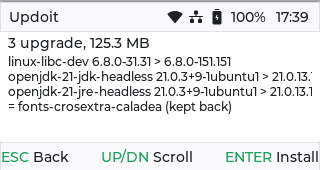
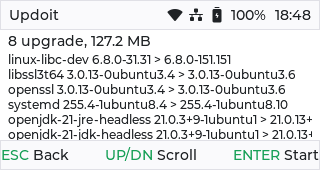
menu: add download-only, reorder, scroll; regenerate screenshots
Menu is now: apt update, apt dist-upgrade -d, apt upgrade, apt dist-upgrade,
apt autoremove, apt clean. "dist-upgrade -d" plans and downloads the full
upgrade set in parallel, moves the files into apt's cache and stops; a later
upgrade or dist-upgrade installs without network. Six rows do not fit the
content area, so the list scrolls (five rows visible).

Confirm screen says "Download only:" for that run and the navbar now reads
"Start" instead of "Install". Screenshots regenerated from the simulator with
8 pending packages, plus a launcher thumbnail showing the icon with the 8 badge.

Claude-Session: https://claude.ai/code/session_01Xo4aVjoxHArJZSZCeMoR8x

Changed region(s): [[0.0, 0.0, 1.0, 1.0]]

diff --git a/src/viewmodel/base_viewmodel.cpp b/src/viewmodel/base_viewmodel.cpp
@@ -74,10 +74,11 @@ updater::JobConfig job_config() {
 }
 
 constexpr Operation kMenuOps[model::kMenuItemCount] = {
+    Operation::Refresh,
+    Operation::Download,
     Operation::Upgrade,
     Operation::FullUpgrade,
     Operation::Autoremove,
-    Operation::Refresh,
     Operation::Clean,
 };
 
@@ -96,7 +97,7 @@ BaseViewModel::BaseViewModel()
       updates_text_subject_(""),
       menu_hint_subject_{reactive::StringSubject<24>(""), reactive::StringSubject<24>(""),
                          reactive::StringSubject<24>(""), reactive::StringSubject<24>(""),
-                         reactive::StringSubject<24>("")},
+                         reactive::StringSubject<24>(""), reactive::StringSubject<24>("")},
       confirm_summary_subject_(""),
       progress_title_subject_(""),
       progress_detail_subject_(""),
@@ -287,7 +288,8 @@ const char* BaseViewModel::menu_label(int index) {
     }
     // Show the real command, so the menu teaches what it runs (apt-get under the hood).
     static const char* const kLabels[model::kMenuItemCount] = {
-        "apt upgrade", "apt dist-upgrade", "apt autoremove", "apt update", "apt clean",
+        "apt update",     "apt dist-upgrade -d", "apt upgrade",
+        "apt dist-upgrade", "apt autoremove",    "apt clean",
     };
     return kLabels[index];
 }
@@ -324,12 +326,13 @@ void BaseViewModel::refresh_updates_text() {
     const auto count_text = [&](int n) {
         return !cache.valid ? std::string("?") : n == 0 ? std::string("none") : std::to_string(n) + " pkg" + (n == 1 ? "" : "s");
     };
-    menu_hint_subject_[0].set(count_text(cache.upgradable).c_str());
-    menu_hint_subject_[1].set(count_text(cache.full_upgradable).c_str());
-    menu_hint_subject_[2].set(count_text(cache.autoremovable).c_str());
     const auto updated = age_text(cache.updated);
-    menu_hint_subject_[3].set(updated.empty() ? "never updated" : updated.c_str());
-    menu_hint_subject_[4].set(!cache.valid || !cache.has_cache_bytes
+    menu_hint_subject_[0].set(updated.empty() ? "never updated" : updated.c_str());
+    menu_hint_subject_[1].set(count_text(cache.full_upgradable).c_str());
+    menu_hint_subject_[2].set(count_text(cache.upgradable).c_str());
+    menu_hint_subject_[3].set(count_text(cache.full_upgradable).c_str());
+    menu_hint_subject_[4].set(count_text(cache.autoremovable).c_str());
+    menu_hint_subject_[5].set(!cache.valid || !cache.has_cache_bytes
                                   ? "?"
                                   : (cache.cache_bytes == 0 ? "empty"
                                                             : updater::format_bytes(cache.cache_bytes).c_str()));
@@ -404,7 +407,8 @@ void BaseViewModel::publish_job(const updater::JobSnapshot& s) {
             break;
 
         case Phase::AwaitingConfirm: {
-            std::string summary = std::to_string(s.upgrades) + " upgrade";
+            std::string summary = s.operation == Operation::Download ? "Download only: " : "";
+            summary += std::to_string(s.upgrades) + " upgrade";
             if (s.new_installs) {
                 summary += ", " + std::to_string(s.new_installs) + " new";
             }
@@ -473,7 +477,14 @@ void BaseViewModel::publish_job(const updater::JobSnapshot& s) {
                                           : s.operation == Operation::Clean ? "Caches cleaned"
                                                                             : "Done");
                 result_tone_subject_.set(0);
-                if (s.operation == Operation::Clean) {
+                if (s.operation == Operation::Download) {
+                    result_title_subject_.set("Downloaded");
+                    text = s.downloaded_count == 0
+                               ? "Nothing to download."
+                               : std::to_string(s.downloaded_count) +
+                                     " packages cached. Run apt upgrade to install them.";
+                }
+                else if (s.operation == Operation::Clean) {
                     text = s.freed_bytes ? "Freed " + updater::format_bytes(s.freed_bytes) + "."
                                          : "Nothing to clean.";
                 }

diff --git a/src/view/screens/menu_screen.cpp b/src/view/screens/menu_screen.cpp
@@ -14,6 +14,7 @@ void row_selected_observer(lv_observer_t* observer, lv_subject_t* subject) {
     const auto index = static_cast<int>(reinterpret_cast<intptr_t>(lv_observer_get_user_data(observer)));
     if (lv_subject_get_int(subject) == index) {
         lv_obj_add_state(row, LV_STATE_CHECKED);
+        lv_obj_scroll_to_view(row, LV_ANIM_OFF); // keep the selection visible in the list
     }
     else {
         lv_obj_remove_state(row, LV_STATE_CHECKED);
@@ -41,8 +42,18 @@ void MenuScreen::build_content(lv_obj_t* content) {
     reactive::bind_label_text(status, view_model().updates_text_subject());
     style::accent(status, dark, style::Accent::Part::Text, style::Accent::Tone::Muted);
 
+    // Rows live in a scrolling list: six rows do not fit the content area at once.
+    auto* list = style::box(column);
+    lv_obj_set_width(list, LV_PCT(100));
+    lv_obj_set_height(list, 5 * 17); // exactly five rows, so none is half cut off
+    lv_obj_add_flag(list, LV_OBJ_FLAG_SCROLLABLE);
+    lv_obj_set_scrollbar_mode(list, LV_SCROLLBAR_MODE_OFF);
+    lv_obj_set_scroll_dir(list, LV_DIR_VER);
+    lv_obj_remove_flag(list, LV_OBJ_FLAG_SCROLL_ELASTIC);
+    lv_obj_set_flex_flow(list, LV_FLEX_FLOW_COLUMN);
+
     for (int i = 0; i < model::kMenuItemCount; ++i) {
-        auto* row = style::box(column);
+        auto* row = style::box(list);
         lv_obj_set_size(row, LV_PCT(100), 17); // five rows fit the 110 px content area
         lv_obj_set_style_radius(row, 4, 0);
         lv_obj_set_style_pad_hor(row, 6, 0);

diff --git a/tests/updoit_cli.cpp b/tests/updoit_cli.cpp
@@ -3,7 +3,7 @@
  */
 
 // Headless driver for UpgradeJob, for testing on a host or over SSH on the device:
-//   updoit-cli [upgrade|full-upgrade|autoremove|refresh|clean] [--yes] [--plan-only]
+//   updoit-cli [upgrade|full-upgrade|autoremove|refresh|clean|download] [--yes] [--plan-only]
 
 #include "upgrade_job.h"
 
@@ -29,12 +29,13 @@ int main(int argc, char** argv) {
         else if (a == "autoremove") op = Operation::Autoremove;
         else if (a == "refresh") op = Operation::Refresh;
         else if (a == "clean") op = Operation::Clean;
+        else if (a == "download") op = Operation::Download;
         else if (a == "--yes") yes = true;
         else if (a == "--plan-only") plan_only = true;
         else if (a.rfind("--limit=", 0) == 0) limit = a.substr(8);
         else if (a.rfind("--cancel-after-ms=", 0) == 0) cancel_after_ms = std::stoi(a.substr(18));
         else {
-            std::fprintf(stderr, "usage: %s [upgrade|full-upgrade|autoremove|refresh|clean] [--yes] [--plan-only] [--limit=500K] [--cancel-after-ms=N]\n", argv[0]);
+            std::fprintf(stderr, "usage: %s [upgrade|full-upgrade|autoremove|refresh|clean|download] [--yes] [--plan-only] [--limit=500K] [--cancel-after-ms=N]\n", argv[0]);
             return 2;
         }
     }

diff --git a/src/updater/apt_parse.cpp b/src/updater/apt_parse.cpp
@@ -69,6 +69,8 @@ const char* operation_label(Operation op) {
             return "Refresh lists";
         case Operation::Clean:
             return "Clean caches";
+        case Operation::Download:
+            return "Download updates";
     }
     return "";
 }
@@ -85,12 +87,14 @@ const char* operation_apt_verb(Operation op) {
             return "update";
         case Operation::Clean:
             return "clean";
+        case Operation::Download:
+            return "dist-upgrade"; // planned and fetched like dist-upgrade, never installed
     }
     return "";
 }
 
 bool operation_downloads(Operation op) {
-    return op == Operation::Upgrade || op == Operation::FullUpgrade;
+    return op == Operation::Upgrade || op == Operation::FullUpgrade || op == Operation::Download;
 }
 
 bool operation_is_direct(Operation op) {

diff --git a/src/updater/upgrade_job.cpp b/src/updater/upgrade_job.cpp
@@ -411,6 +411,18 @@ void UpgradeJob::execute_worker(Operation op) {
         }
     }
 
+    if (op == Operation::Download) {
+        // Files are in apt's cache now; "apt upgrade"/"apt dist-upgrade" will use them
+        // later without touching the network. Nothing is installed.
+        std::lock_guard<std::mutex> lock(mutex_);
+        state_.downloaded_count = static_cast<int>(staged.size());
+        state_.install_percent = 100;
+        state_.phase = Phase::Done;
+        state_.can_cancel = false;
+        bump();
+        return;
+    }
+
     // 3. Install. apt re-verifies every hash before dpkg sees the files.
     //    Status goes to fd 3 (a dup of stdout): with APT::Status-Fd=1 apt closes stdout for
     //    dpkg, and maintainer scripts that echo then fail with "I/O error". sudo closes

diff --git a/src/view/widgets/navbar.cpp b/src/view/widgets/navbar.cpp
@@ -27,7 +27,7 @@ Hints hints_for(model::AppPage page, bool can_cancel) {
         case model::AppPage::Menu:
             return {{{"ESC", "Quit"}, {"UP/DN", "Choose"}, {"ENTER", "Run"}}};
         case model::AppPage::Confirm:
-            return {{{"ESC", "Back"}, {"UP/DN", "Scroll"}, {"ENTER", "Install"}}};
+            return {{{"ESC", "Back"}, {"UP/DN", "Scroll"}, {"ENTER", "Start"}}};
         case model::AppPage::Progress:
             if (can_cancel) {
                 return {{{"ESC", "Cancel"}, {nullptr, nullptr}, {nullptr, nullptr}}};

diff --git a/src/updater/apt_parse.h b/src/updater/apt_parse.h
@@ -16,6 +16,7 @@ enum class Operation {
     Autoremove,  // apt-get autoremove
     Refresh,     // apt-get update
     Clean,       // apt-get clean (frees the package cache)
+    Download,    // apt-get dist-upgrade --download-only (fetch now, install later)
 };
 
 const char* operation_label(Operation op);

diff --git a/src/updater/upgrade_job.h b/src/updater/upgrade_job.h
@@ -43,6 +43,7 @@ struct JobSnapshot {
     int kept_back = 0;
     uint64_t download_bytes = 0;  // total size of files to fetch
     uint64_t freed_bytes = 0;     // Clean caches: space released
+    int downloaded_count = 0;     // Download updates: packages fetched
 
     DownloadProgress download;
 

diff --git a/src/model/base_model.h b/src/model/base_model.h
@@ -16,7 +16,7 @@ enum class AppPage {
     Result   = 4, // done / failed / cancelled
 };
 
-constexpr int kMenuItemCount = 5;
+constexpr int kMenuItemCount = 6;
 
 class BaseModel {
 public:

diff --git a/README.md b/README.md
@@ -1,4 +1,5 @@
 <p align="center">
+  <img src="./screenshot/updoit-launcher.png" alt="Updoit in the launcher, with 8 updates pending" width="320" />
   <img src="./screenshot/updoit-menu.png" alt="Updoit menu" width="320" />
   <img src="./screenshot/updoit-download.png" alt="Updoit downloading packages in parallel" width="320" />
 </p>
@@ -10,9 +11,11 @@
 
 ## What it does
 
-- **apt upgrade, apt dist-upgrade, apt autoremove, apt update, apt clean** (run as the
-  matching `apt-get` commands), each labelled with its command and with what it would do:
-  package counts, time of the last update, and the size of the package cache from a keyboard-driven 320x170 UI.
+- **apt update, apt dist-upgrade -d, apt upgrade, apt dist-upgrade, apt autoremove,
+  apt clean** from a keyboard-driven 320x170 UI, run as the matching `apt-get` commands.
+  `-d` downloads everything now and installs nothing, so a later upgrade needs no network.
+- **Each menu row shows what it would do**: package counts, the time of the last update and
+  the size of the package cache, cached in `/etc/updoit.status`.
 - **Confirm first**: shows what will be upgraded, installed, removed or kept back, and the
   download size, before anything changes.
 - **Parallel downloads** with `aria2c` (4 files at once, 2 connections each), with overall
@@ -33,7 +36,7 @@ guard, reboot prompt, network check, auto-upgrade, pipelined download+install).
 | Page | Keys |
 | --- | --- |
 | Password | type, `Enter` unlock, `Backspace` delete, `Esc` quit |
-| Menu | `Up`/`Down` choose, `1`-`5` run directly, `Enter` run, `Esc` quit |
+| Menu | `Up`/`Down` choose (the list scrolls), `1`-`6` run directly, `Enter` run, `Esc` quit |
 | Confirm | `Up`/`Down` scroll, `Enter` download + install, `Esc` back |
 | Progress | `Esc` cancel (checking and downloading only; never mid-install) |
 | Result | `Up`/`Down` scroll, `Enter`/`Esc` back to menu |
@@ -79,6 +82,7 @@ Depends on `apt`, `aria2` and `sudo`.
 ## Testing without the GUI
 
 ```shell
+updoit-cli download                   # fetch the full-upgrade set into apt's cache, install nothing
 updoit-cli clean                      # free the apt package cache (no confirm step)
 updoit-cli upgrade --plan-only        # show the plan, change nothing
 updoit-cli upgrade                    # prompts for the sudo password, then asks to proceed
